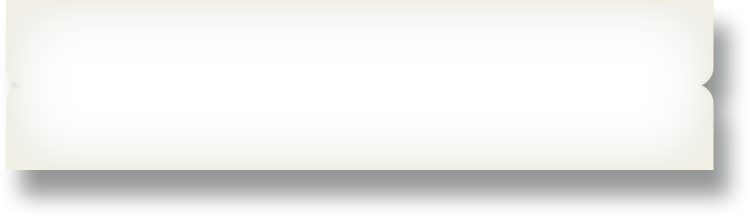
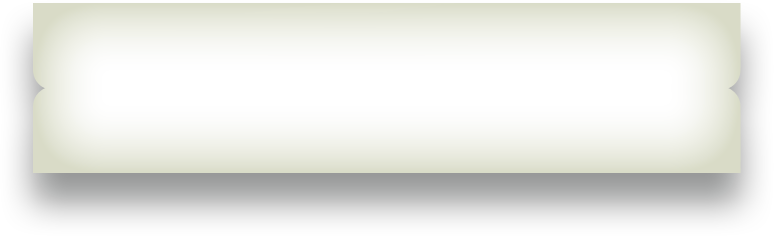
Todo list réu OK + Button île hidden

diff --git a/Classes/lory/src/travel/TravelUIViewController.m b/Classes/lory/src/travel/TravelUIViewController.m
@@ -122,7 +122,7 @@
         [viewController.titleLabel setText:[(NSString *)[currentItem valueForKey:@"title"] uppercaseString]];
         [viewController.descLabel setText:[currentItem valueForKey:@"description"]];
         
-        if(![[currentItem valueForKey:@"done"] boolValue])
+        if([[currentItem valueForKey:@"done"] boolValue])
             [viewController displayDone];
         
         view.layer.doubleSided = NO; //prevent back side of view from showing
@@ -206,7 +206,7 @@
     [super viewDidLoad];
     icarousel.type = iCarouselTypeLinear;
     icarousel.vertical = YES;
-    icarousel.viewpointOffset = CGSizeMake(-10, -10);
+    icarousel.viewpointOffset = CGSizeMake(0, -10);
     [travelDetail setHidden:YES];
     travelName.delegate = self;
     

diff --git a/Classes/lory/src/travel/TravelItemViewController.m b/Classes/lory/src/travel/TravelItemViewController.m
@@ -16,6 +16,7 @@
 @synthesize titleLabel;
 @synthesize descLabel;
 @synthesize okImage;
+@synthesize bgImage;
 
 - (id)initWithNibName:(NSString *)nibNameOrNil bundle:(NSBundle *)nibBundleOrNil
 {
@@ -28,7 +29,8 @@
 
 - (void)displayDone
 {
-    [okImage setHidden:YES];
+    [bgImage setImage:[UIImage imageNamed:@"travel-item-selected.png"]];
+    [okImage setHidden:NO];
 }
 
 - (void)viewDidLoad
@@ -42,6 +44,7 @@
     [self setTitleLabel:nil];
     [self setDescLabel:nil];
     [self setOkImage:nil];
+    [self setBgImage:nil];
     [super viewDidUnload];
     // Release any retained subviews of the main view.
     // e.g. self.myOutlet = nil;

diff --git a/Classes/lory/src/travel/TravelItemViewController.h b/Classes/lory/src/travel/TravelItemViewController.h
@@ -12,6 +12,7 @@
 @property (weak, nonatomic) IBOutlet UILabel *titleLabel;
 @property (weak, nonatomic) IBOutlet UILabel *descLabel;
 @property (weak, nonatomic) IBOutlet UIImageView *okImage;
+@property (weak, nonatomic) IBOutlet UIImageView *bgImage;
 - (void)displayDone;
 
 @end

diff --git a/Classes/lory/src/tribu/ClassementUIViewController.h b/Classes/lory/src/tribu/ClassementUIViewController.h
@@ -6,8 +6,8 @@
 //  Copyright (c) 2012 Sodeso. All rights reserved.
 //
 
-#import <UIKit/UIKit.h>
+#import "GenericUIViewController.h"
 
-@interface ClassementUIViewController : UIViewController
+@interface ClassementUIViewController : GenericUIViewController
 
 @end

diff --git a/Classes/lory/src/tribu/PlayersUIViewController.h b/Classes/lory/src/tribu/PlayersUIViewController.h
@@ -6,8 +6,8 @@
 //  Copyright (c) 2012 Sodeso. All rights reserved.
 //
 
-#import <UIKit/UIKit.h>
+#import "GenericUIViewController.h"
 
-@interface PlayersUIViewController : UIViewController
+@interface PlayersUIViewController : GenericUIViewController
 
 @end

diff --git a/Classes/lory/src/tribu/MapUIViewController.h b/Classes/lory/src/tribu/MapUIViewController.h
@@ -6,8 +6,8 @@
 //  Copyright (c) 2012 Sodeso. All rights reserved.
 //
 
-#import <UIKit/UIKit.h>
+#import "GenericUIViewController.h"
 
-@interface MapUIViewController : UIViewController
+@interface MapUIViewController : GenericUIViewController
 
 @end
